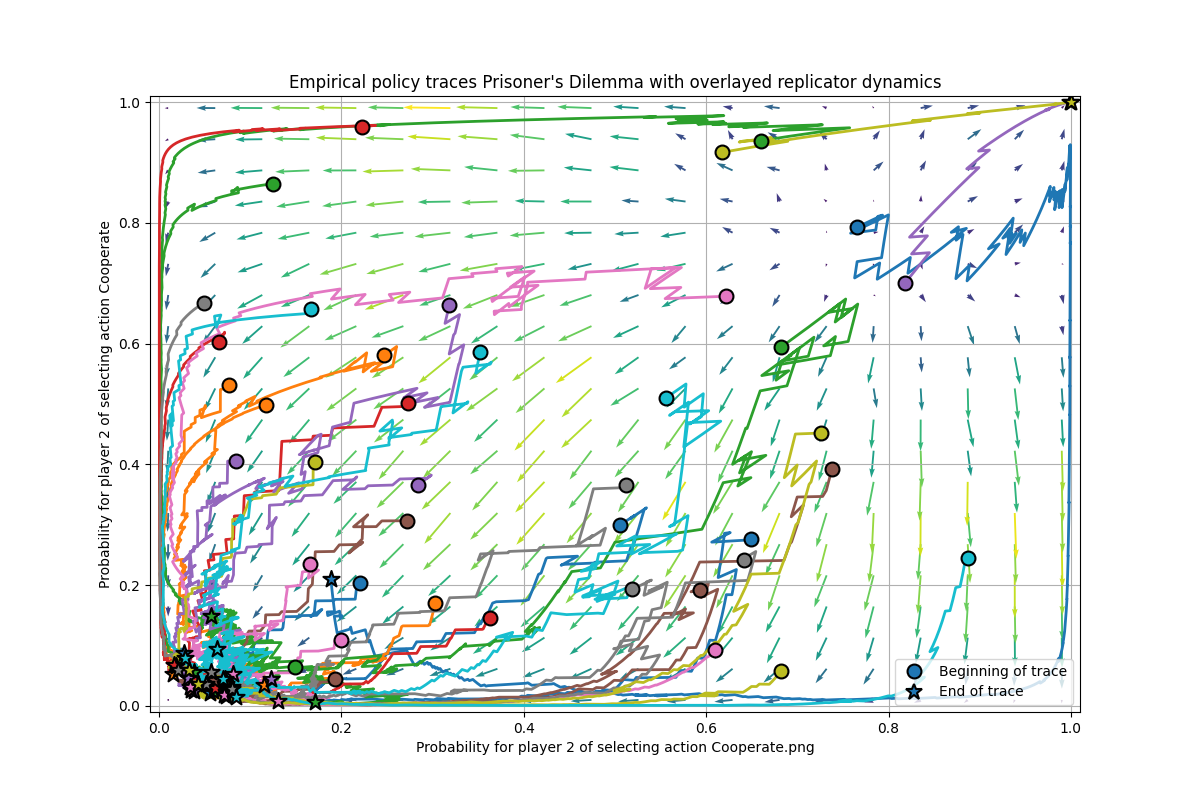
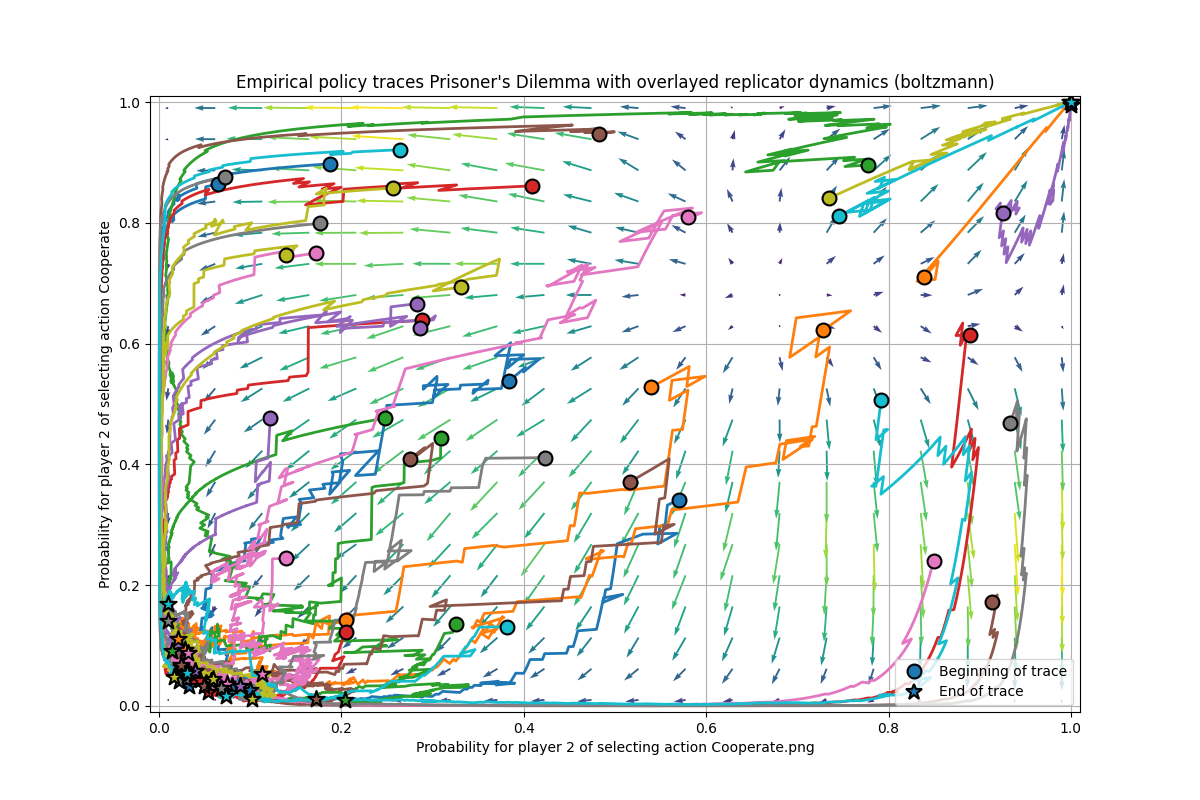
Run plots with correct rewards

Changed region(s): [[0.1233, 0.0938, 0.8942, 0.9062], [0.7708, 0.4062, 0.8325, 0.4688]]

diff --git a/part1/game.py b/part1/game.py
@@ -4,24 +4,21 @@ class Game:
     action_names: list[str]
 
 
-class PrisonersDilemma(Game):
-    rewards = [
-        [(3, 3), (0, 5)],
-        [(5, 0), (1, 1)],
-    ]
-    action_names = ["Cooperate", "Defect"]
-    name = "Prisoner's Dilemma"
-
-
 class StagHunt(Game):
     # TODO: rewert to correct valeus
     rewards = [[(4, 4), (1, 3)], [(3, 1), (3, 3)]]
-    # rewards = [
-    #     [(1, 1), (0, 2 / 3)],
-    #     [(2 / 3, 0), (2 / 3, 2 / 3)],
-    # ]
+    # rewards = [[(1, 1), (0, 2 / 3)], [(2 / 3, 0), (2 / 3, 2 / 3)]]
     action_names = ["Stag", "Hare"]
     name = "Stag Hunt"
+
+
+class SubsidyGame(Game):
+    rewards = [
+        [(12, 12), (0, 11)],
+        [(11, 0), (10, 10)],
+    ]
+    action_names = ["S1", "S2"]
+    name = "Subsidy Game"
 
 
 class MatchingPennies(Game):
@@ -33,10 +30,10 @@ class MatchingPennies(Game):
     name = "Matching Pennies"
 
 
-class SubsidyGame(Game):
+class PrisonersDilemma(Game):
     rewards = [
-        [(12, 12), (0, 11)],
-        [(11, 0), (10, 10)],
+        [(3, 3), (0, 5)],
+        [(5, 0), (1, 1)],
     ]
-    action_names = ["S1", "S2"]
-    name = "Subsidy Game"
+    action_names = ["Cooperate", "Defect"]
+    name = "Prisoner's Dilemma"
